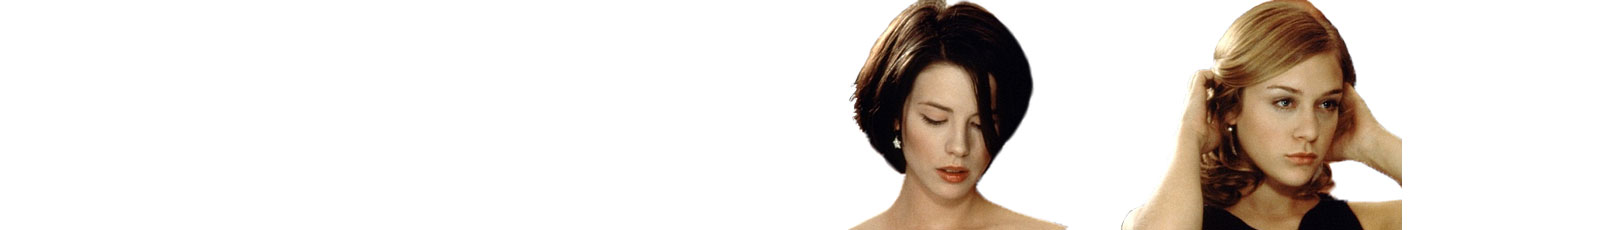
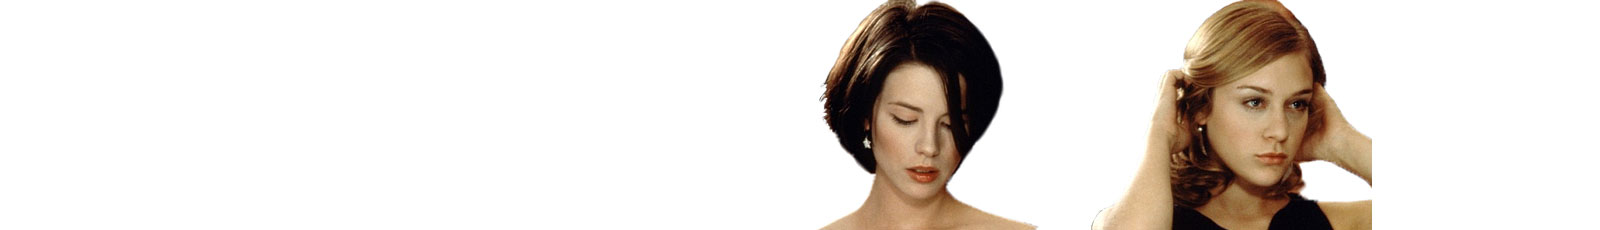
Tweak all header images, add Metropolitan 3

Changed region(s): [[0.5, 0.0, 0.875, 1.0]]

diff --git a/style.css b/style.css
@@ -299,7 +299,11 @@ footer.entry-meta > span:first-child {
 	}
 }
 
-
+@media (max-width: 999px) {
+	.site-header {
+		background-image: none ! important;
+	}
+}
 
 @media (max-width: 643px) {
 	.entry-title,

diff --git a/functions.php b/functions.php
@@ -99,7 +99,8 @@ function whitstillman_get_headers() {
 		array(
 			'tags'			=> array('metropolitan'),
 			'title_words'	=> array('metropolitan'),
-			'images'		=> array('metropolitan1', 'metropolitan2'),
+			//'images'		=> array('metropolitan1', 'metropolitan2', 'metropolitan3'),
+			'images'		=> array('metropolitan3'),
 		),
 	);
 };
